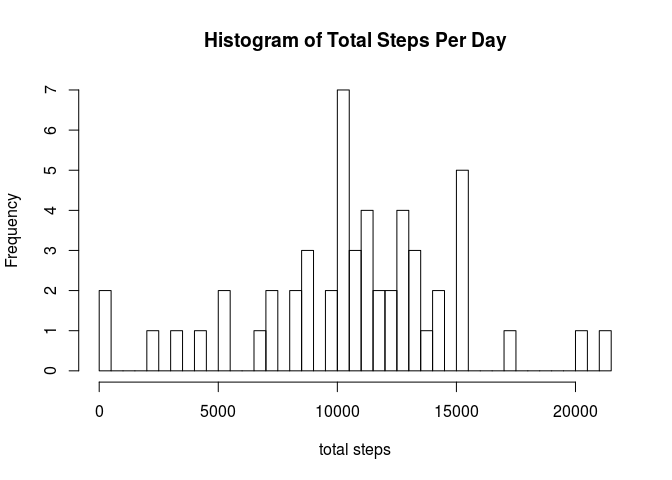
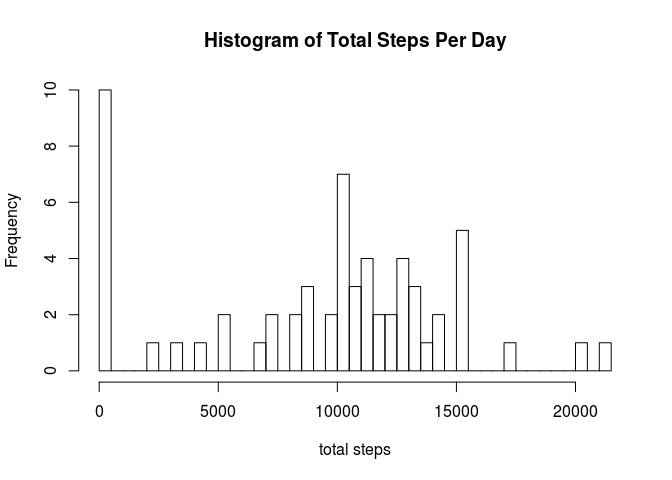
Final check and more modification

diff --git a/PA1_template.html b/PA1_template.html
@@ -167,7 +167,7 @@ Act &lt;- tbl_df(act)</code></pre>
 <p>use sum function and group by date</p>
 <pre class="r"><code>table &lt;- Act %&gt;%
   group_by(date) %&gt;%
-  summarise(total_step=sum(steps))
+  summarise(total_step=sum(steps, na.rm = TRUE))
 
 # explore table
 table</code></pre>
@@ -175,14 +175,14 @@ table</code></pre>
 ## 
 ##          date total_step
 ##        (fctr)      (int)
-## 1  2012-10-01         NA
+## 1  2012-10-01          0
 ## 2  2012-10-02        126
 ## 3  2012-10-03      11352
 ## 4  2012-10-04      12116
 ## 5  2012-10-05      13294
 ## 6  2012-10-06      15420
 ## 7  2012-10-07      11015
-## 8  2012-10-08         NA
+## 8  2012-10-08          0
 ## 9  2012-10-09      12811
 ## 10 2012-10-10       9900
 ## ..        ...        ...</code></pre>
@@ -192,13 +192,13 @@ table</code></pre>
 <p>use base plot system</p>
 <pre class="r"><code>hist(table$total_step, breaks = 50, main = &quot;Histogram of Total Steps Per Day&quot;,
      xlab = &quot;total steps&quot;)</code></pre>
[2 lines of base64/hex data omitted]
 </div>
 <div id="calculate-the-mean-and-median" class="section level3">
 <h3>Calculate the mean and median</h3>
 <pre class="r"><code>step_mean &lt;- as.integer(mean(table$total_step, na.rm = TRUE))
 step_median &lt;- as.integer(median(table$total_step, na.rm = TRUE))</code></pre>
-<p>The mean of total steps taken per day is 10766, and the median is 10765.</p>
+<p>The mean of total steps taken per day is 9354, and the median is 10395.</p>
 </div>
 </div>
 <div id="what-is-the-average-daily-activity-pattern" class="section level2">
@@ -289,7 +289,7 @@ step_median2 &lt;- as.integer(median(table3$total_step))</code></pre>
 </div>
 <div id="coclusion" class="section level3">
 <h3>Coclusion</h3>
-<p>Compared with those with missing values included, it seems mean and median changed slightly, and the frequency is more likely normal distributed.</p>
+<p>Compared with those with missing values included, it seems mean changed a lot while median changed slightly, and the frequency is more likely normal distributed.</p>
 </div>
 </div>
 <div id="are-there-differences-in-activity-patterns-between-weekdays-and-weekends" class="section level2">

diff --git a/PA1_template.md b/PA1_template.md
@@ -88,7 +88,7 @@ use sum function and group by date
 ```r
 table <- Act %>%
   group_by(date) %>%
-  summarise(total_step=sum(steps))
+  summarise(total_step=sum(steps, na.rm = TRUE))
 
 # explore table
 table
@@ -99,14 +99,14 @@ table
 ## 
 ##          date total_step
 ##        (fctr)      (int)
-## 1  2012-10-01         NA
+## 1  2012-10-01          0
 ## 2  2012-10-02        126
 ## 3  2012-10-03      11352
 ## 4  2012-10-04      12116
 ## 5  2012-10-05      13294
 ## 6  2012-10-06      15420
 ## 7  2012-10-07      11015
-## 8  2012-10-08         NA
+## 8  2012-10-08          0
 ## 9  2012-10-09      12811
 ## 10 2012-10-10       9900
 ## ..        ...        ...
@@ -128,7 +128,7 @@ hist(table$total_step, breaks = 50, main = "Histogram of Total Steps Per Day",
 step_mean <- as.integer(mean(table$total_step, na.rm = TRUE))
 step_median <- as.integer(median(table$total_step, na.rm = TRUE))
 ```
-The mean of total steps taken per day is 10766, and the median is 10765.
+The mean of total steps taken per day is 9354, and the median is 10395.
 
 ## What is the average daily activity pattern?  
 ### Prepare table for average steps across days of every 5-min interval
@@ -245,7 +245,7 @@ step_median2 <- as.integer(median(table3$total_step))
 The mean of total steps taken per day is 10766, and the median is 10766.   
 
 ### Coclusion
-Compared with those with missing values included, it seems mean and median changed slightly, and the frequency is more likely normal distributed.
+Compared with those with missing values included, it seems mean changed a lot while median changed slightly, and the frequency is more likely normal distributed.
 
 ## Are there differences in activity patterns between weekdays and weekends?
 ### Find weekends in dates give
